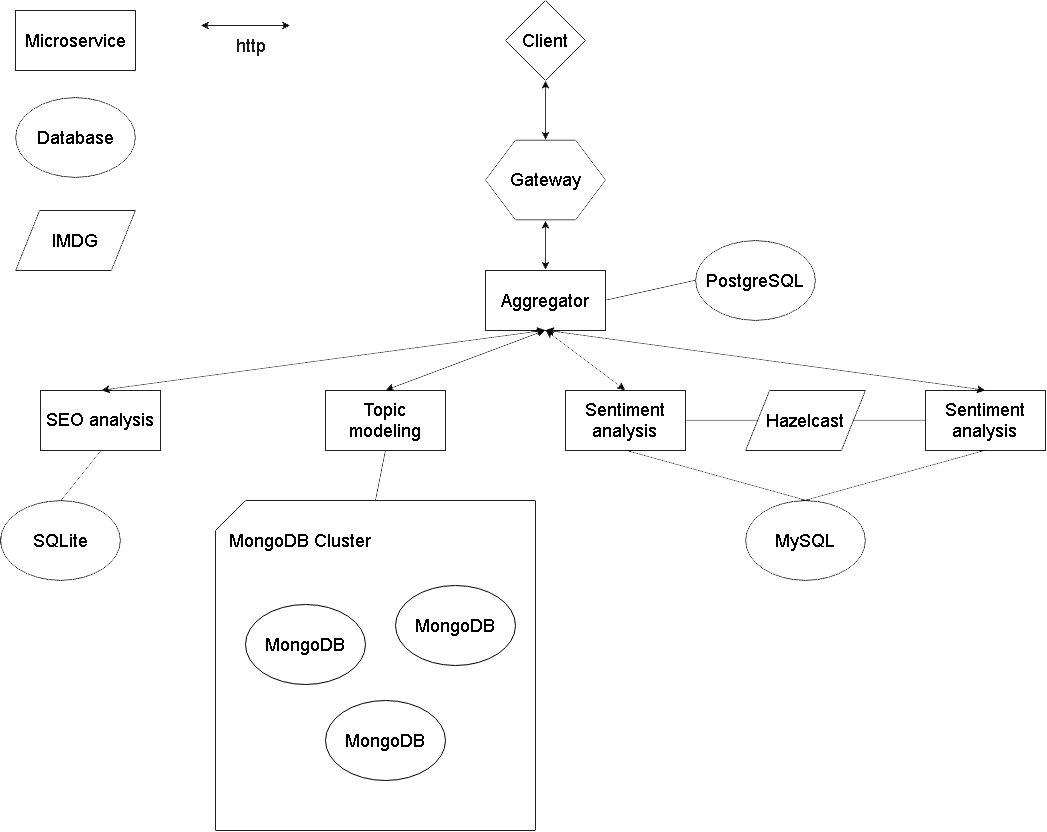
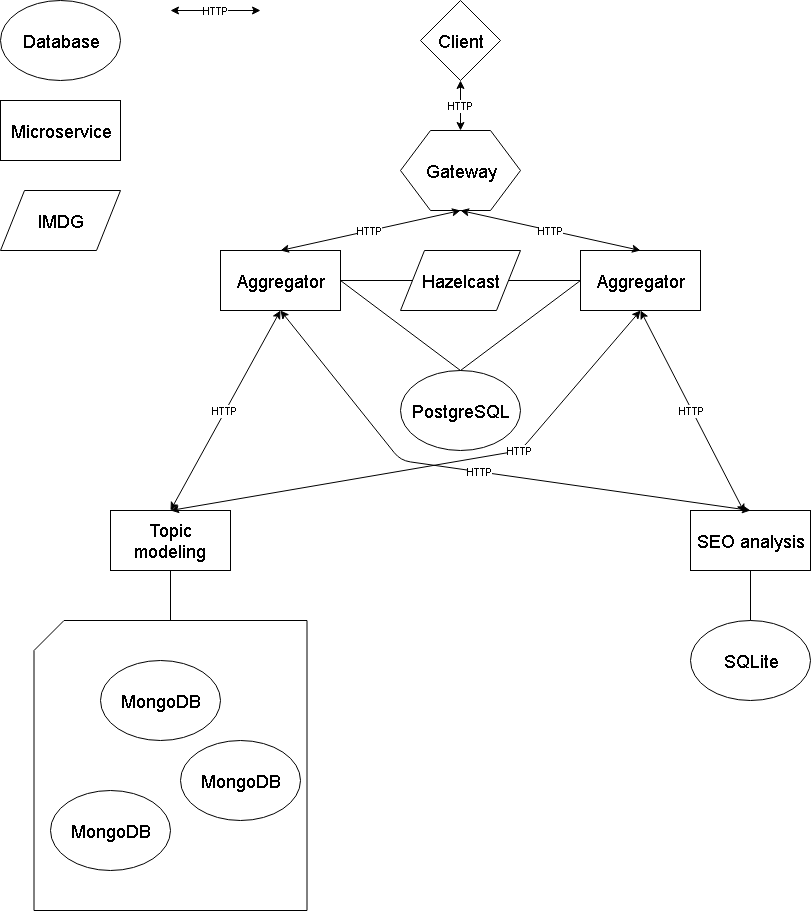
Docs update

diff --git a/docs/index.md b/docs/index.md
@@ -4,8 +4,8 @@ Truth checker distributed service, it`s a set of services that calculates some p
 in order to determine their veracity. It uses a couple of machine learning and NLP algorithms for text researching.
 
 ## Services
-- [aggregator](aggregator.md): language detection, saving text in raw format, correctness checking and sending;
-async requests.
+- [aggregator](aggregator.md): language detection, saving text in raw format, correctness checking and sending
+async requests;
 - [topic modeling](topic_modeling.md): modeling of topic distribution via Latent Dirichlet Allocation and computing
 similarity coefficient between headline and article text;
 - [SEO analysis](seo_analysis.md): computing most popular SEO processing metrics and their evaluation via

diff --git a/docs/architecture.md b/docs/architecture.md
@@ -3,4 +3,4 @@
 ![Architecture](img/architecture.png)
 
 Every microservice uses its own database. Aggregator communicates with other micoservices via REST API.
-Sentiment analysis has a replicated instance with distributed cache by Hazelcast IMDG.
+Aggregator has a replicated instance with distributed cache by Hazelcast IMDG.
